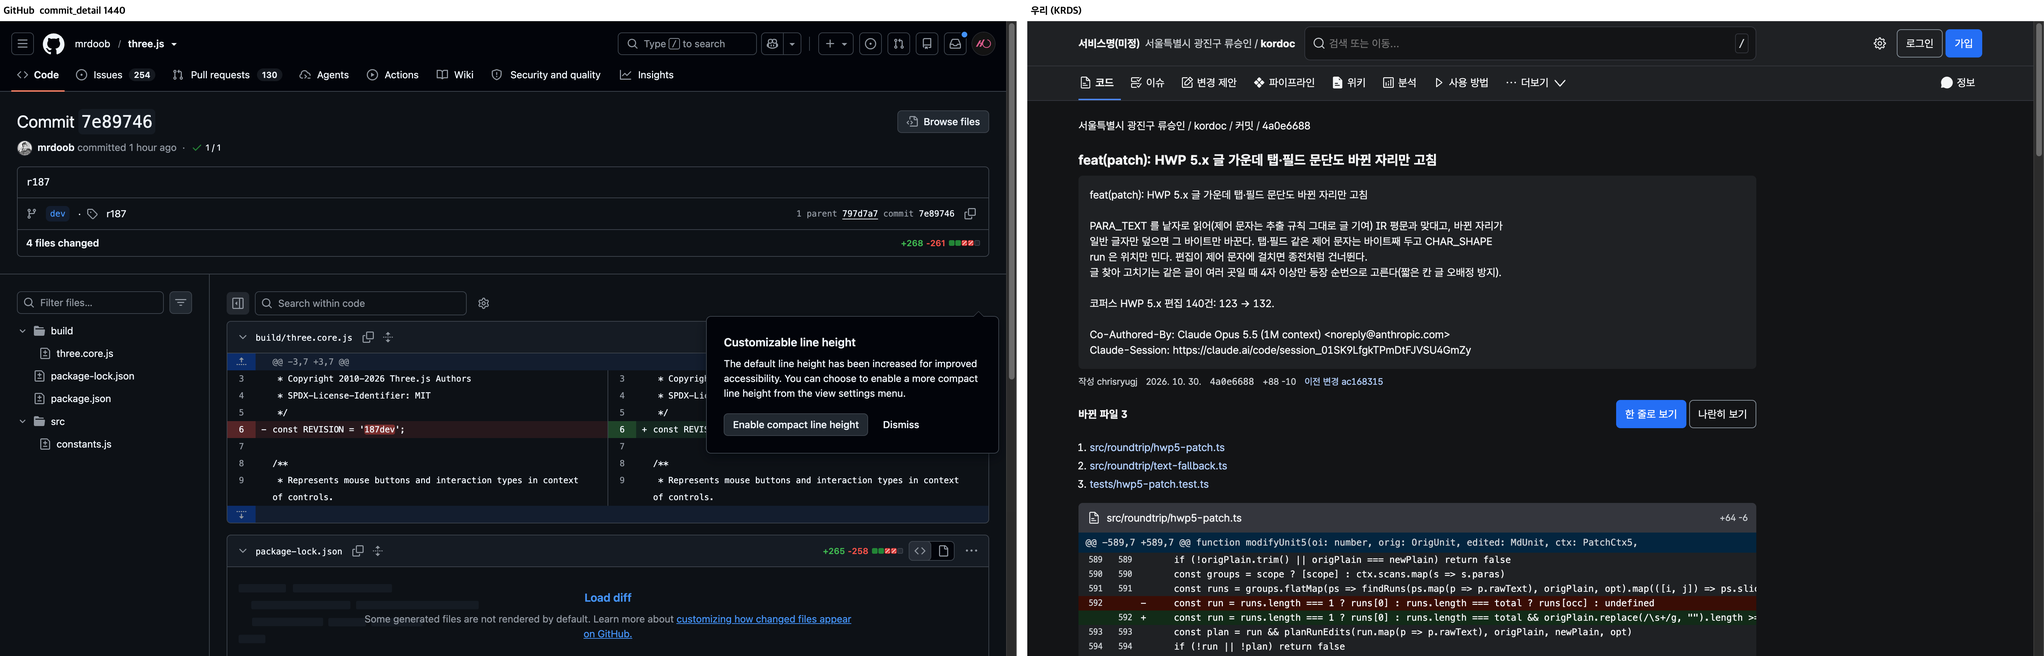
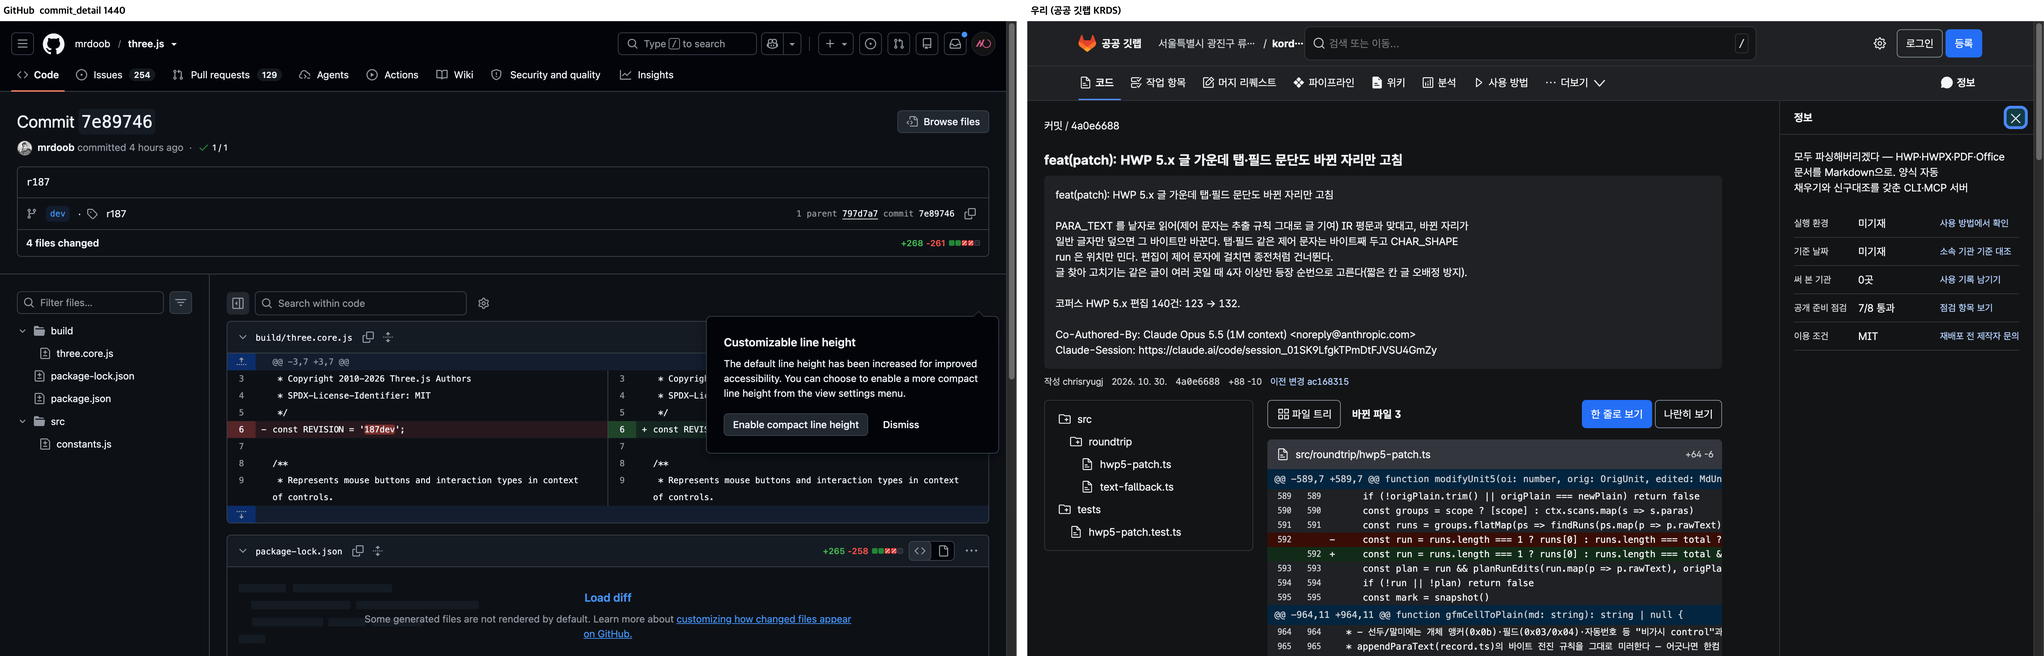
정보 패널: 라벨/값 세로 쌍, 긴 글 접기(3줄, 소개 4줄), 행 링크를 맨 아래 한 줄로, 도킹 패널을 컨테이너 안으로, 폭 점검 P 검사와 재실행, 비교 이미지 24장, 구조 차이 목록

diff --git a/app/src/components/Layout/DockInfo.jsx b/app/src/components/Layout/DockInfo.jsx
@@ -1,9 +1,13 @@
-// D-18 4장: 도킹 패널의 정보 요약. 소개 한 줄(원문), 개수, 사용 전 확인 4줄과 이용 조건. 소개와 사용 방법 탭의 설명을 다시 쓰지 않는다.
+// D-18 4장 + UX-007 14장: 도킹 패널의 정보 요약. 소개(4줄까지), 개수, 사용 전 확인(라벨 위/값 아래 쌍, 값은 3줄까지 접기).
+// 행마다 있던 링크는 두지 않고 맨 아래 한 줄('사용 방법 전체 보기')로 모은다. 공개 준비 점검의 점검 항목은 펼침 안에서 보인다.
 import { Link } from 'react-router-dom';
 import { t } from '../../copy/ko';
+import { u } from '../../copy/ui';
 import { useData } from '../../api/useData';
 import { cleanDescription } from './description';
 import { decisionRows, loadDecision } from './DecisionPanel';
+import { FoldText, InfoPair } from './FoldText';
+import { CHECK_LABEL } from '../../screens/parts/checkLabels';
 
 export function DockInfo({ id, project, readme, totals, stats }) {
   const d = useData(() => loadDecision(id), [id]);
@@ -12,28 +16,35 @@ export function DockInfo({ id, project, readme, totals, stats }) {
   const counts = [
     stats?.commits != null ? [t.fn.nCommits(stats.commits, stats.more), `${p}/changes`] : null,
     totals?.branches != null ? [t.fn.nBranches(totals.branches), `${p}/branches`] : null,
-    totals?.tags != null ? [t.fn.nTags(totals.tags), `${p}/branches`] : null,
+    totals?.tags != null ? [t.fn.nTags(totals.tags), `${p}/tags`] : null,
     totals?.releases != null ? [t.fn.nReleases(totals.releases), `${p}/releases`] : null,
   ].filter(Boolean);
   const rows = d.data ? decisionRows(id, readme, d.data).slice(0, 5) : [];
   return (
     <div className="rb-dock-info">
-      {intro ? <p className="rb-dock-intro">{intro}</p> : null}
+      {intro ? <FoldText lines={4} className="rb-dock-intro">{intro}</FoldText> : null}
       {counts.length ? (
         <ul className="rb-dock-counts">
           {counts.map(([label, to]) => <li key={to + label}><Link className="krds-link" to={to}>{label}</Link></li>)}
         </ul>
       ) : null}
       {d.data ? (
-        <dl className="rb-dock-list">
-          {rows.map(([label, value, [action, to]]) => (
-            <div className="rb-dock-row" key={label}>
-              <dt>{label}</dt>
-              <dd className="rb-dock-value">{value}</dd>
-              <dd className="rb-dock-link"><Link className="krds-link" to={to || '?reuse=1'}>{action}</Link></dd>
-            </div>
-          ))}
-        </dl>
+        <>
+          <dl className="rb-dock-list">
+            {rows.map(([label, value]) => (
+              <InfoPair key={label} label={label}>
+                <FoldText
+                  extra={label === t.P04_10 ? (
+                    <ul className="rb-fold-checks">
+                      {d.data.check.checks.map((c) => <li key={c.id}>{CHECK_LABEL[c.id] || c.id} {c.pass ? t.P09_26 : t.P09_27}</li>)}
+                    </ul>
+                  ) : null}
+                >{value}</FoldText>
+              </InfoPair>
+            ))}
+          </dl>
+          <p className="rb-dock-more"><Link className="krds-link" to={`${p}/use`}>{u.Dock_allUsage}</Link></p>
+        </>
       ) : <p className="krds-text-body-xsmall rb-subtle" role="status">{d.state === 'Error' ? d.error : t.P10_1}</p>}
     </div>
   );

diff --git a/app/src/components/Layout/DecisionPanel.jsx b/app/src/components/Layout/DecisionPanel.jsx
@@ -1,4 +1,6 @@
 // Figma: Repo/Decision. 공무원 판단 정보(U3): 칸마다 값, 비었으면 이유와 다음 행동(U6). 저장소 첫 화면 오른쪽과 소개 탭에서 같이 쓴다.
+import { u } from '../../copy/ui';
+import { FoldText, InfoPair } from './FoldText';
 import { Link } from 'react-router-dom';
 import { t } from '../../copy/ko';
 import { product } from '../../api/client';
@@ -14,7 +16,8 @@ export async function loadDecision(id) {
 }
 
 function findLine(readme, pattern) {
-  return (readme || '').split('\n').find((l) => pattern.test(l))?.replace(/^\s*[-*]\s*/, '').replace(/\*\*/g, '');
+  // README 원문 한 줄을 글자로 정리: 목록 기호, 굵게, 코드 표시, 표 구분 글자, 마크다운 링크 주소를 지운다
+  return (readme || '').split('\n').find((l) => pattern.test(l))?.replace(/^\s*[-*]\s*/, '').replace(/\*\*/g, '').replace(/`/g, '').replace(/\[([^\]]*)\]\([^)]*\)/g, '$1').replace(/^\s*\|\s*|\s*\|\s*$/g, '').replace(/\s*\|\s*/g, ' ').trim();
 }
 
 export function decisionRows(id, readme, d) {
@@ -29,17 +32,16 @@ export function decisionRows(id, readme, d) {
   ];
 }
 
-export function DecisionList({ rows }) {
+export function DecisionList({ rows, id }) {
   return (
-    <dl className="rb-stack rb-decision-list">
-      {rows.map(([title, value, [action, to]]) => (
-        <div className="rb-decision-item" key={title}>
-          <dt className="krds-text-body-small-bold">{title}</dt>
-          <dd className="krds-text-body-xsmall rb-subtle">{value}</dd>
-          <dd><Link className="krds-link krds-text-body-small" to={to}>{action}</Link></dd>
-        </div>
-      ))}
-    </dl>
+    <>
+      <dl className="rb-decision-list">
+        {rows.map(([title, value]) => (
+          <InfoPair key={title} label={title}><FoldText>{value}</FoldText></InfoPair>
+        ))}
+      </dl>
+      {id ? <p className="rb-dock-more"><Link className="krds-link" to={`/projects/${id}/use`}>{u.Dock_allUsage}</Link></p> : null}
+    </>
   );
 }
 
@@ -48,7 +50,7 @@ export function DecisionBlock({ id, readme, d, headingId = 'decision-title' }) {
   return (
     <section data-figma="decision-panel" className="rb-about-block" aria-labelledby={headingId}>
       <h2 id={headingId} className="krds-text-body-small-bold">{t.P04_25}</h2>
-      {d.data ? <DecisionList rows={decisionRows(id, readme, d.data)} /> : <p className="krds-text-body-xsmall rb-subtle" role="status">{d.state === 'Error' ? d.error : t.P10_1}</p>}
+      {d.data ? <DecisionList id={id} rows={decisionRows(id, readme, d.data)} /> : <p className="krds-text-body-xsmall rb-subtle" role="status">{d.state === 'Error' ? d.error : t.P10_1}</p>}
     </section>
   );
 }

diff --git a/app/src/styles.css b/app/src/styles.css
@@ -299,3 +299,19 @@ a.krds-link:hover, .krds-link:hover { text-decoration: underline; }
 
 /* UX/12 장식 점검: 상태 전환의 개수는 GitHub처럼 알약 없이 숫자만, 이미지 대체 글자는 알약 없이 글자만 */
 .rb-statetab-count { padding: 0; background: none; border-radius: 0; color: var(--krds-color-text-subtle); }
+
+/* UX-007 14장: 정보 패널과 판단 정보는 라벨(13 보조색) 위, 값(15) 아래의 세로 쌍. 긴 글은 3줄(소개 4줄)까지 보이고 '더보기'로 펼친다 */
+.rb-dock-list, .rb-decision-list { display: flex; flex-direction: column; gap: var(--krds-gap-5); margin: 0; }
+.rb-pair { display: flex; flex-direction: column; gap: var(--krds-gap-1); margin: 0; min-width: 0; }
+.rb-pair-label { margin: 0; color: var(--krds-color-text-subtle); font-size: var(--rb-step-13); line-height: var(--rb-lh-13); }
+.rb-pair-value { margin: 0; min-width: 0; font-size: var(--rb-step-15); line-height: var(--rb-lh-15); }
+.rb-fold { display: flex; flex-direction: column; align-items: flex-start; gap: var(--krds-gap-1); min-width: 0; width: 100%; }
+.rb-fold-text { margin: 0; display: -webkit-box; -webkit-box-orient: vertical; -webkit-line-clamp: var(--rb-fold-lines, 3); line-clamp: var(--rb-fold-lines, 3); overflow: hidden; overflow-wrap: anywhere; }
+.rb-fold-text.is-open { display: block; -webkit-line-clamp: unset; line-clamp: unset; overflow: visible; }
+.rb-fold-btn { padding: 0; border: 0; background: none; white-space: nowrap; font: inherit; cursor: pointer; text-decoration: underline; text-underline-offset: var(--krds-number-3); }
+.rb-fold-checks { margin: 0; padding: 0; list-style: none; display: flex; flex-direction: column; gap: var(--krds-gap-1); }
+.rb-dock-more { margin: 0; }
+
+/* 도킹 패널이 열려도 본문 왼쪽 선은 머리글, 탭 줄과 같은 컨테이너 왼쪽이다. 본문 영역과 패널을 컨테이너 안에 함께 가운데 둔다(패널은 컨테이너 오른쪽 끝) */
+.rb-work { width: 100%; max-width: calc(var(--rb-container-w) + var(--rb-page-pad) * 2); margin-inline: auto; box-sizing: border-box; }
+.rb-work > .rb-shell { max-width: none; margin-inline: 0; flex: 1 1 auto; min-width: 0; }

diff --git a/app/src/components/Layout/FoldText.jsx b/app/src/components/Layout/FoldText.jsx
@@ -1,0 +1,39 @@
+// 긴 글 접기(UX-007 14장): 정해진 줄 수(기본 3, 소개 4)까지만 보이고 나머지는 '더보기'로 펼친다. 펼치면 '접기'. 링크형 단추(KRDS 링크), nowrap, aria-expanded.
+import { useId, useLayoutEffect, useRef, useState } from 'react';
+import { u } from '../../copy/ui';
+
+export function FoldText({ children, lines = 3, className = '', extra = null }) {
+  const id = useId();
+  const [open, setOpen] = useState(false);
+  const [clamped, setClamped] = useState(false);
+  const ref = useRef(null);
+  useLayoutEffect(() => {
+    const el = ref.current;
+    if (!el) return undefined;
+    const check = () => { if (!open) setClamped(el.scrollHeight > el.clientHeight + 1); };
+    check();
+    const ro = new ResizeObserver(check);
+    ro.observe(el);
+    return () => ro.disconnect();
+  }, [children, open, lines]);
+  const foldable = clamped || open || Boolean(extra);
+  return (
+    <div className={'rb-fold ' + className}>
+      <p ref={ref} id={id} className={'rb-fold-text' + (open ? ' is-open' : '')} style={{ '--rb-fold-lines': lines }}>{children}</p>
+      {open && extra ? <div className="rb-fold-extra">{extra}</div> : null}
+      {foldable ? (
+        <button type="button" className="krds-link rb-fold-btn" aria-expanded={open} aria-controls={id} onClick={() => setOpen(!open)}>{open ? u.Fold_less : u.Fold_more}</button>
+      ) : null}
+    </div>
+  );
+}
+
+/** 라벨(13 보조색) 위, 값(15) 아래의 세로 쌍. 세 열 구조를 쓰지 않는다. */
+export function InfoPair({ label, children }) {
+  return (
+    <div className="rb-pair">
+      <dt className="rb-pair-label">{label}</dt>
+      <dd className="rb-pair-value">{children}</dd>
+    </div>
+  );
+}

diff --git a/app/src/components/Layout/shell.css b/app/src/components/Layout/shell.css
@@ -295,13 +295,6 @@
 .rb-dock-info { display: flex; flex-direction: column; gap: var(--krds-gap-6); }
 .rb-dock-intro { margin: 0; overflow-wrap: anywhere; }
 .rb-dock-counts { display: flex; flex-wrap: wrap; gap: var(--krds-gap-2) var(--krds-gap-6); list-style: none; margin: 0; padding: 0; }
-.rb-dock-list { display: grid; grid-template-columns: auto minmax(0, 1fr) auto; margin: 0; }
-.rb-dock-row > dd.rb-dock-value, .rb-dock-row > dd.rb-dock-link { padding-inline-start: var(--krds-padding-6); }
-.rb-dock-row { display: contents; }
-.rb-dock-row > dt, .rb-dock-row > dd { display: flex; align-items: center; min-height: var(--rb-row-h); margin: 0; border-bottom: var(--krds-border-width-static-regular) solid var(--krds-color-border-gray-light); text-align: start; }
-.rb-dock-row > dt { color: var(--krds-color-text-subtle); font-size: var(--krds-font-size-body-xsmall); line-height: var(--rb-lh-13); white-space: nowrap; }
-.rb-dock-value { overflow-wrap: anywhere; }
-.rb-dock-link { white-space: nowrap; font-size: var(--krds-font-size-body-xsmall); line-height: var(--rb-lh-13); }
 @media (max-width: 767px) {
   .rb-work { flex-direction: column; }
   .rb-dock { position: fixed; inset-inline: 0; bottom: 0; top: auto; width: auto; height: 70dvh; z-index: 95; border-inline-start: 0; border-top: var(--krds-border-width-static-regular) solid var(--krds-color-border-gray-light); border-radius: var(--krds-radius-medium3) var(--krds-radius-medium3) 0 0; }

diff --git a/app/scripts/fluid-inspect.js b/app/scripts/fluid-inspect.js
@@ -45,6 +45,17 @@
       if (lastW <= fs * 4 && lastWord.length <= 4 && text.includes(' ')) out.push(['K', `${name(e)} 마지막 줄 "${lastWord}"`]);
     }
   }
+  // P 정보 패널(UX-007 14장): 접힌 글은 3줄(소개 4줄) 이하, 값 열 폭은 쌍마다 같아야 한다, 행마다 링크 열이 없어야 한다
+  for (const tx of document.querySelectorAll('.rb-fold-text:not(.is-open)')) {
+    if (!shown(tx)) continue;
+    const lh = parseFloat(getComputedStyle(tx).lineHeight);
+    const n = Math.round(tx.clientHeight / lh);
+    const max = tx.closest('.rb-dock-intro') ? 4 : 3;
+    if (n > max) out.push(['P', `접힌 글 ${n}줄(최대 ${max}) "${tx.textContent.trim().slice(0, 10)}"`]);
+  }
+  const pw = [...document.querySelectorAll('.rb-dock-list .rb-pair-value')].filter(shown).map((e) => e.getBoundingClientRect().width);
+  if (pw.length > 1 && Math.max(...pw) - Math.min(...pw) > 2) out.push(['P', `값 열 폭 불일치 ${Math.round(Math.min(...pw))}~${Math.round(Math.max(...pw))}`]);
+  if (document.querySelector('.rb-dock-list .rb-pair > dd + dd')) out.push(['P', '행마다 링크 열 있음']);
   // B 겹침: 형제 상자가 서로 겹침(둘 다 글자 포함, 흐름 안 요소)
   const flow = (e) => { const cs = getComputedStyle(e); return (cs.position === 'static' || cs.position === 'relative') && cs.display !== 'inline'; };
   let pairs = 0;

diff --git a/app/src/screens/P31_PublishCheck.jsx b/app/src/screens/P31_PublishCheck.jsx
@@ -1,5 +1,6 @@
 // A-03 공개 준비 점검. 프로젝트 안 화면. 서버의 점검 결과(F-21)를 이 프로젝트의 파일 목록과 설명서로 받아 항목별로 보인다.
 // 공개 승인이 아님을 화면에서 분명히 한다.
+import { CHECK_LABEL } from './parts/checkLabels';
 import { Link, useParams } from 'react-router-dom';
 import { phrase } from '../components/Help/Phrase';
 import { t } from '../copy/ko';
@@ -9,16 +10,6 @@ import { ProjectFrame, useProject } from '../components/Layout/ProjectFrame';
 import { Status } from '../components/Feedback/Status';
 import '../components/Code/code.css';
 
-const CHECK_LABEL = {
-  gitignore: t.P09_3,
-  readme: t.P09_4,
-  purpose: t.P09_5,
-  usage: t.P09_6,
-  environment: t.P09_7,
-  license: t.P09_8,
-  tests: t.P09_9,
-  ci: t.P09_10,
-};
 
 export default function PublishCheck() {
   const { id } = useParams();

diff --git a/app/src/screens/P09_Publish.jsx b/app/src/screens/P09_Publish.jsx
@@ -1,4 +1,5 @@
 // P-09 새 도구 올리기. 단계: 비슷한 도구 확인(F-04, F-05) → 공개 준비 점검(F-21, F-22) → 설명 확인. 공개 승인이 아님을 분명히.
+import { CHECK_LABEL } from './parts/checkLabels';
 import { phrase } from '../components/Help/Phrase';
 import { t } from '../copy/ko';
 import { useEffect, useState } from 'react';
@@ -14,16 +15,6 @@ import { Steps } from '../components/Navigation/StepIndicator';
 import { EmptyState } from '../components/Feedback/Status';
 
 const STEPS = [t.P09_1, t.P04_10, t.P09_2];
-const CHECK_LABEL = {
-  gitignore: t.P09_3,
-  readme: t.P09_4,
-  purpose: t.P09_5,
-  usage: t.P09_6,
-  environment: t.P09_7,
-  license: t.P09_8,
-  tests: t.P09_9,
-  ci: t.P09_10,
-};
 
 export default function Publish() {
   const [step, setStep] = useState(0);

diff --git a/app/src/screens/parts/checkLabels.js b/app/src/screens/parts/checkLabels.js
@@ -1,0 +1,13 @@
+// 공개 준비 점검 항목 이름. 도구 올리기, 공개 준비 점검, 정보 패널이 함께 쓴다.
+import { t } from '../../copy/ko';
+
+export const CHECK_LABEL = {
+  gitignore: t.P09_3,
+  readme: t.P09_4,
+  purpose: t.P09_5,
+  usage: t.P09_6,
+  environment: t.P09_7,
+  license: t.P09_8,
+  tests: t.P09_9,
+  ci: t.P09_10,
+};

diff --git a/app/src/copy/ui.js b/app/src/copy/ui.js
@@ -70,4 +70,7 @@ export const u = {
   Tip_star: "챙겨 볼 저장소 표시",
   Tip_usage: "이 도구를 써 본 기관의 기록",
   Login_moisAlt: "행정안전부",
+  Fold_more: "더보기",
+  Fold_less: "접기",
+  Dock_allUsage: "사용 방법 전체 보기",
 };

diff --git a/UX/github_compare/구조_차이_목록.md b/UX/github_compare/구조_차이_목록.md
@@ -1,22 +1,24 @@
-# GitHub 대비 구조 차이 목록 (1440, 빌드 d364a7b 기준)
+# GitHub 대비 구조 차이 목록 (1440, 2026. 10. 30. 배포 e27ba0b 이후 다시 만든 비교 이미지 기준)
 
-비교 이미지: 같은 폴더의 `<화면>_1440.png`(왼쪽 GitHub, 오른쪽 우리). 홈·파일·검색·목록은 1920도 있다. GitHub 쪽은 mrdoob/three.js, 위키는 microsoft/vscode를 읽기만 했다.
+비교 이미지: 같은 폴더의 `<화면>_1440.png`, `<화면>_1920.png` 12쌍(왼쪽 GitHub, 오른쪽 우리). GitHub 쪽은 mrdoob/three.js, 위키는 microsoft/vscode를 읽기만 했다.
 
-| 화면 | GitHub 구조 | 우리 구조 | 차이와 처리 |
+| 화면 | GitHub 구조 | 우리 구조(지금) | 남은 차이 |
 |---|---|---|---|
-| 이슈 목록 | 제목 "Issues", 검색 입력, 열림/닫힘 필터 막대와 정렬 드롭다운, 테두리 상자 안 행 | 열림/닫힘 글자 전환, 테두리 상자 안 행 | 상자와 행은 맞춤(d364a7b). 검색 입력, 정렬 드롭다운은 없음(API가 지원하지 않음) |
-| 이슈 상세 | 제목 위 경로 없음, 본문 왼쪽 댓글 흐름, 오른쪽 담당자/라벨/마일스톤 열 | 제목 위 한 줄 경로(이슈 / #번호), 본문 상자 한 개 | 경로 줄은 소유자/저장소를 빼고 유지. 오른쪽 열은 정보 도킹 패널로 대체(2차 판단 필요) |
-| 변경 제안 목록 | 왼쪽 메뉴, 검색 입력, 열림/닫힘 필터 | 옛 하위 탭(파일/변경 제안/브랜치·태그/릴리스/참여자)이 남아 있음 | 옛 하위 탭이 탭 줄과 중복. 다음 작업에서 제거 대상 |
-| 커밋 목록 | 제목 "Commits", 브랜치 선택, 날짜 묶음 아래 행 상자 | 저장소 제목 줄이 먼저 나오고 "변경 기록", 날짜 묶음, 행 | d364a7b에서 제목 줄은 홈에서만 보이도록 바꿈. 행 상자(테두리)는 아직 없음 |
-| 커밋 상세 | 제목 "Commit 해시", 작성자 줄, 요약 상자, 파일 트리 왼쪽 + 변경 오른쪽 | 제목, 설명 상자, 변경 파일 번호 목록, 변경 본문 | 왼쪽 파일 트리와 요약 상자 구성이 다름. 한 열 구조 유지 |
-| 태그 | 목록 상자 한 개 | 브랜치와 같은 화면 안 "태그 N" 구역 | 화면이 분리되지 않음 |
-| 릴리스 | 왼쪽에 릴리스 목록, 본문은 릴리스 카드 | 카드 목록 + 옛 하위 탭 | 카드 구조는 비슷. 옛 하위 탭 중복 |
-| 브랜치 | Overview/Active/Stale/All 탭, 기본 브랜치 상자, 활성 브랜치 표 | 브랜치 N, 태그 N 두 구역 | 표 열(갱신, 상태, 앞/뒤, 변경 제안)이 없음 |
-| 위키 | 페이지 본문 + 오른쪽 목록(Pages) | 위키 0 + 비어 있음 상태 | 데이터가 없는 저장소라 비교 불가. 본문과 오른쪽 목록 구조만 다름 |
+| 홈 | 제목 줄, 브랜치/태그, 파일 표, 오른쪽 About | 제목 줄(별표, 포크, 더보기, 사용 기록), 파일 표, 정보는 '정보' 탭으로 여는 도킹 패널 | About이 오른쪽 상시 열이 아니라 도킹 패널(사용자 지시) |
+| 파일 보기 | 파일 트리, 미리보기/코드/Blame 막대 | 같은 구조, 마크다운은 미리보기 기본 | 줄 이동, 심볼 패널 없음 |
+| 검색 | 왼쪽 필터 열 + 결과 | 왼쪽 필터 열 + 결과 카드 | 결과 종류 탭(코드, 이슈 등) 없음 |
+| 작업 항목 목록 | 검색칸, 열림/닫힘 개수 머리, 정렬 | 검색칸, 열림/닫힘 개수, 정렬 드롭다운, 테두리 상자 안 행 | 작성자/라벨/마일스톤 필터 드롭다운, '새 작업 항목' 단추 없음 |
+| 작업 항목 상세 | 댓글 흐름, 오른쪽 담당자/라벨 열 | 제목 아래 한 줄 메타(담당자, 마일스톤, 라벨), 본문 | 댓글 흐름 없음(자료 없음). 오른쪽 열은 사용자 지시로 만들지 않음 |
+| 머지 리퀘스트 목록 | 검색칸, 열림/닫힘/반영됨 | 같은 구조(열림/반영됨/닫힘 개수, 정렬) | 필터 드롭다운 없음 |
+| 커밋 목록 | 제목, 브랜치 선택, 날짜 묶음 상자 | 날짜 묶음 + 상자 안 구분선 행, 해시와 복사 | 브랜치 선택과 작성자/기간 필터 없음 |
+| 커밋 상세 | 제목, 요약 상자, 왼쪽 파일 트리 + 변경 | 제목, 설명 상자, 왼쪽 파일 트리(열고 닫기, B 키) + 변경 본문 | 파일 검색칸, 요약 상자의 부모 해시 링크 위치 |
+| 태그 | 목록 상자 | 별도 /tags 화면, 검색칸, 브랜치/태그/릴리스 전환 링크 | 태그 날짜 열 정렬 |
+| 릴리스 | 왼쪽 릴리스 목록, 본문 카드 | 카드 목록(최신 배지), 브랜치/태그/릴리스 전환 링크 | 왼쪽 목록과 '이 페이지' 목차 없음 |
+| 브랜치 | Overview/Active/Stale/All 탭, 기본 브랜치와 활성 브랜치 표 | 같은 탭(개수), 표(브랜치, 갱신, 커밋 비교, 작성자) | 검사 상태, 풀 리퀘스트 열 없음(자료 없음) |
+| 위키 | 본문 + 오른쪽 Pages 목록 | 데이터 없으면 제목과 '첫 문서 만들기' 단추(공공 깃랩 위키 새 문서로 이동) | 위키 자료 있는 저장소의 본문/목록 구조는 자료가 없어 비교하지 못함 |
 
-## 이번 빌드에서 바꾼 것
-- 제목 줄(저장소 이름, 관심 표시, 써 봤어요)은 저장소 홈에서만 나옴. 이슈 목록 등은 탭 줄 바로 아래에서 시작.
-- "정보" 버튼은 탭 줄 오른쪽 끝으로 이동.
-- 파일 보기 막대: 미리보기/코드/Blame과 줄 수, 크기가 왼쪽, 원본/복사/이력이 오른쪽.
-- 상세 화면 경로 줄은 "이슈 / #번호", "변경 기록 / 해시"처럼 소유자/저장소를 뺀 한 줄(머리글 경로가 소유자/저장소를 보여 줌).
-- data-figma 이름표: 머리글 경로 `repo-path`, 본문 경로 줄 `breadcrumb`.
+## 이번 정리에서 바꾼 것
+- 머리글: 공공 깃랩 로고와 이름, 이름-경로 간격 24, 탐색 현재 표시는 채움 없음
+- 탭 줄 이름: 코드, 작업 항목, 머지 리퀘스트, 파이프라인, 위키, 분석, 더보기, 사용 방법, 정보
+- 정보 패널: 라벨 위/값 아래 쌍, 긴 글 3줄(소개 4줄) 접기, 맨 아래 '사용 방법 전체 보기'
+- 본문 왼쪽 선: 머리글, 탭 줄, 제목, 본문, 바닥글이 컨테이너 왼쪽 하나

diff --git a/UX/10_연속폭_점검.md b/UX/10_연속폭_점검.md
@@ -1,11 +1,13 @@
 # 연속 폭 점검
 
-- 실행일: 2026-10-30, 대상: 로컬 빌드(978ee1b 기준)
+- 실행일: 2026-10-30, 대상: 로컬 빌드(정보 패널 쌍 형식, 컨테이너 안 도킹 반영 후 재실행)
 - 도구: app/scripts/check-fluid.mjs(playwright 판)와 같은 검사 함수(fluid-inspect.js, edge-inspect.js, menu-inspect.js)를 Aside 브라우저에서 돌렸다. 이동 뒤에 setViewportSize를 하고 window.innerWidth가 기대 폭과 같은지 단언한다(scripts/viewport.mjs와 같은 규칙)
 - 범위: 경로 61개 x 폭 291단계(320~3840, 8px 간격 + 중단점 앞뒤 1px: 319/320, 359/360, 479/480, 767/768, 1023/1024, 1279/1280, 1439/1440, 1919/1920, 2559/2560, 3840) x 높이 600/900 = 35502단계
 - 메뉴 열림: 대표 6개 경로(/, /projects/150, /projects/150/code/README.md, /projects/1115/issues, /projects/150/changes/4a0e6688cfd3fb6ec7fb56bd24ef0844045a9326, /my), 폭 63단계, 메뉴 1474번 열어 높이 32/한 줄/폭 160~320/가장자리 12 검사
 - 큰 폭: 2560/3840: 머리글, 탭 줄, 본문, 바닥글 컨테이너 1280이 좌우 여백 같음(차이 0). 왼쪽 메뉴 화면(/my)은 shell 전체가 좌우 같고 본문은 메뉴 때문에 오른쪽으로 치우침(정상)
 - 결과: 위반(A 넘침, B 겹침, C 한 글자 줄바꿈, D 두 줄 쪼개짐, E 왼쪽 선, F 잘림) 0건, 메뉴 위반 0건. 참고(K 마지막 줄 한 어절) 70종
+
+- 정보 패널(UX-007 14장): 정보 패널을 연 채 3개 경로(/projects/150, /projects/1140, /projects/1115/issues) x 폭 291단계. P(접힌 글 3줄/소개 4줄, 값 열 폭 같음, 행마다 링크 열 없음)와 A~F 위반 0 (873단계, 위반 0건). 대표 스크린샷: fluid_check/dock_ref_360.jpg, fluid_check/dock_ref_768.jpg, fluid_check/dock_ref_1440.jpg
 
 ## 위반
 
@@ -149,8 +151,6 @@
 | /projects/150/members | 메뉴0 서랍버튼0 탭줄1 탭바1 검색1 -> 메뉴0 서랍버튼0 탭줄1 탭바0 검색1 | 1024 |
 | /projects/150/activity | 메뉴0 서랍버튼1 탭줄1 탭바1 검색0 -> 메뉴0 서랍버튼0 탭줄1 탭바1 검색1 | 768 |
 | /projects/150/activity | 메뉴0 서랍버튼0 탭줄1 탭바1 검색1 -> 메뉴0 서랍버튼0 탭줄1 탭바0 검색1 | 1024 |
-| /requests | 메뉴1 서랍버튼1 탭줄0 탭바1 검색0 -> 메뉴0 서랍버튼1 탭줄0 탭바1 검색0 | 656 |
-| /requests | 메뉴0 서랍버튼1 탭줄0 탭바1 검색0 -> 메뉴1 서랍버튼0 탭줄0 탭바1 검색1 | 768 |
 
 ## 참고(K): 마지막 줄 한 어절
 
